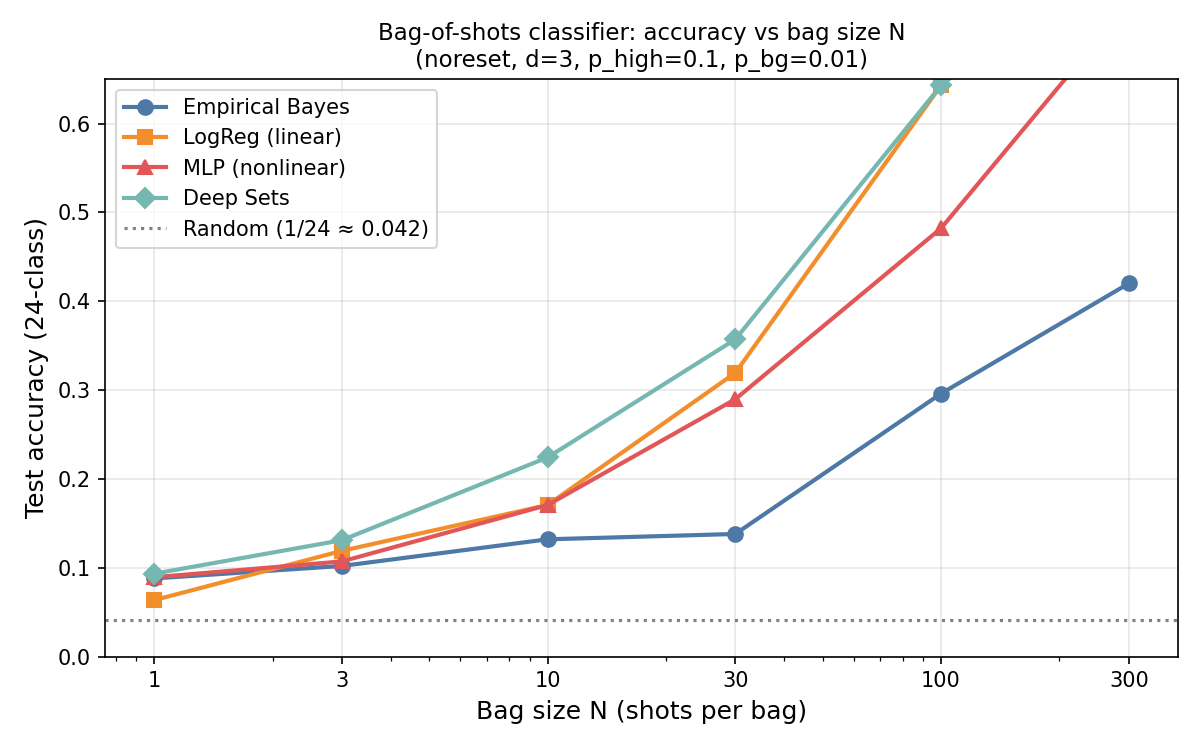
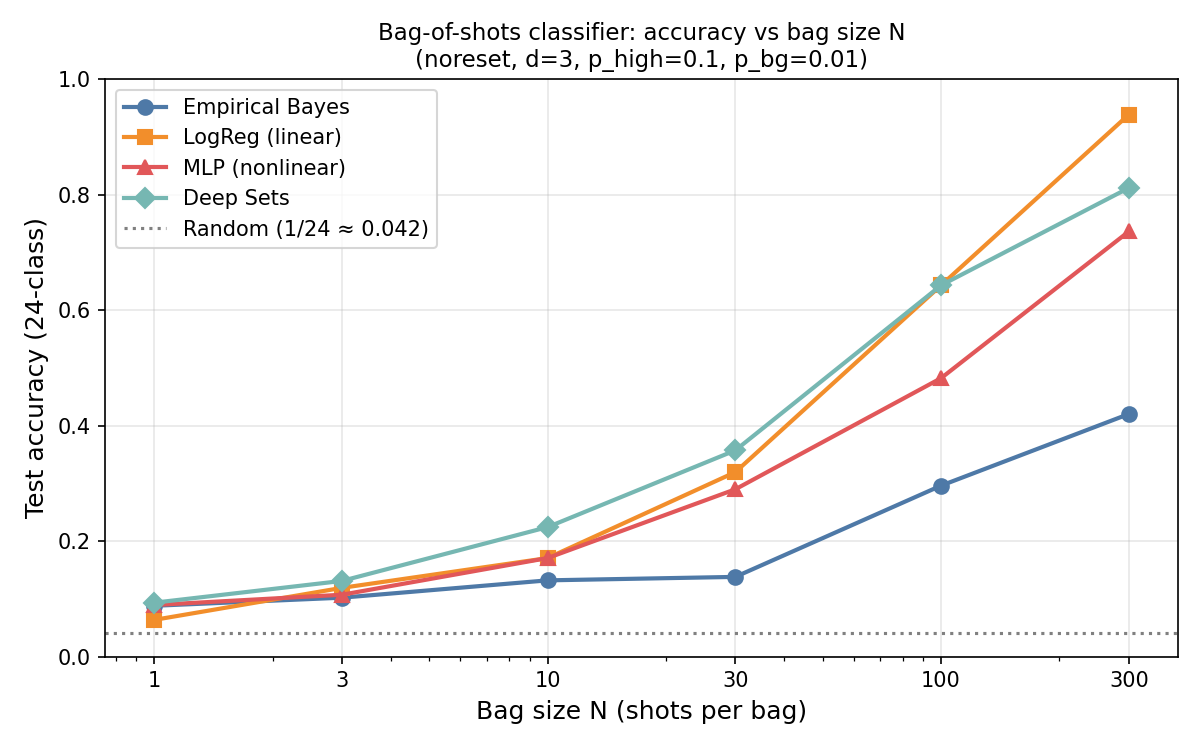
Fix accuracy_vs_N y-axis clipping (0.65 → 1.0)
N=300 results (logreg 0.939, deepsets 0.812, mlp 0.736) were cut off
by the stale ylim from the n1000 plots.

https://claude.ai/code/session_01FR2DBRmHSQYi1WBjyX9WHz

diff --git a/scripts/analyze_bag_sweep.py b/scripts/analyze_bag_sweep.py
@@ -115,7 +115,7 @@ def plot_accuracy_vs_N():
                  f"(noreset, d=3, p_high=0.1, p_bg=0.01)", fontsize=11)
     ax.set_xticks(N_LIST)
     ax.get_xaxis().set_major_formatter(mticker.ScalarFormatter())
-    ax.set_ylim(0, 0.65)
+    ax.set_ylim(0, 1.0)
     ax.legend(fontsize=10, loc="upper left")
     ax.grid(True, alpha=0.3)
 
